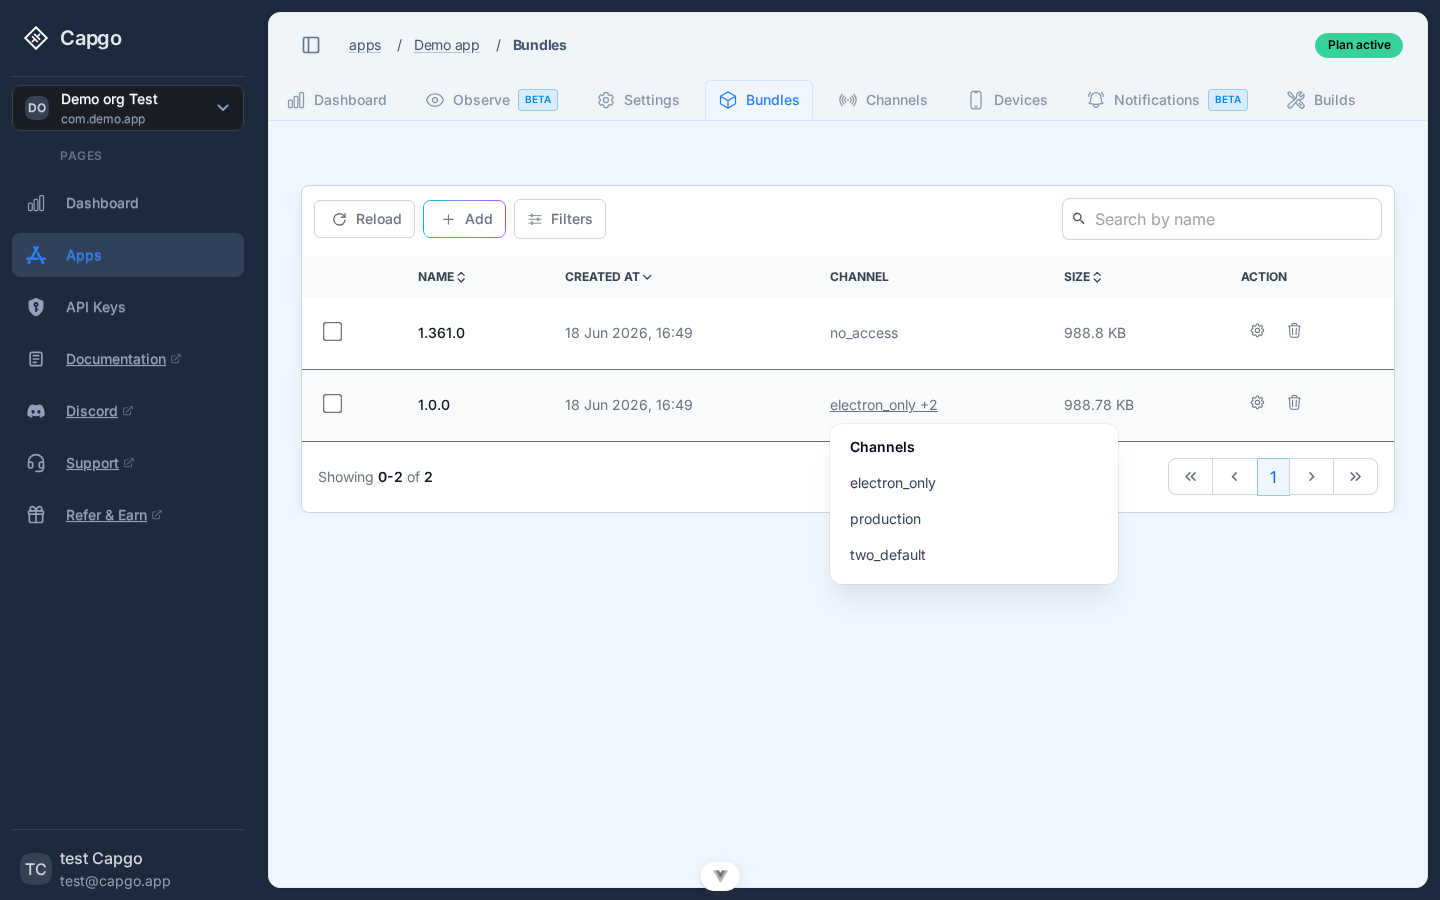
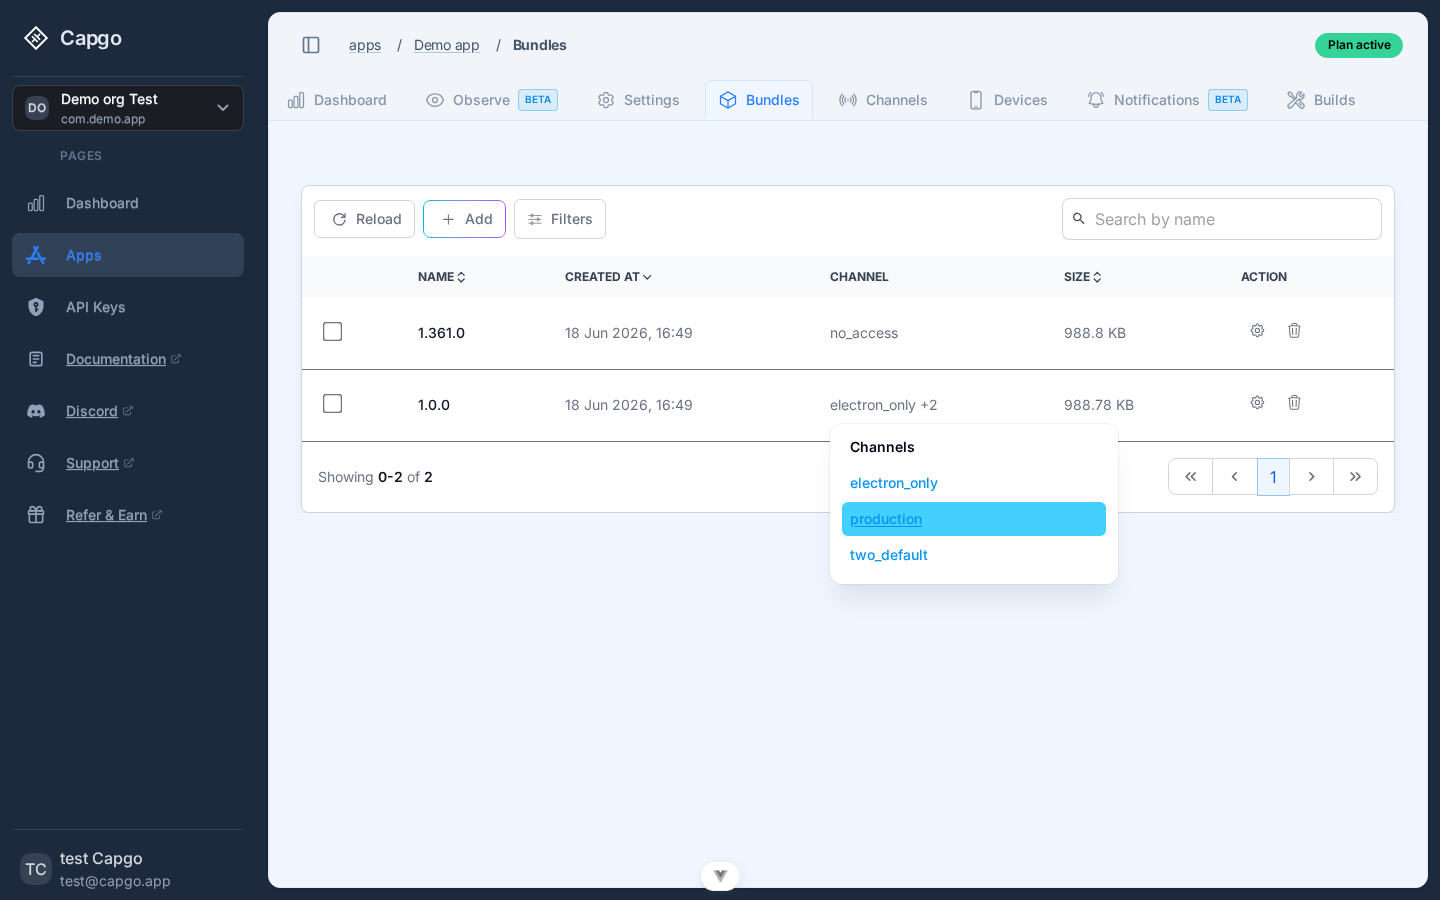
fix(console): make bundle channel popover items look clickable
Azure link styling so the metadata-style list clearly invites selecting
a channel. Refresh after screenshots with production row hovered.

Changed region(s): [[0.5625, 0.5289, 0.7812, 0.6222]]

diff --git a/src/components/tables/BundleChannelsPopover.vue b/src/components/tables/BundleChannelsPopover.vue
@@ -190,7 +190,7 @@ onUnmounted(() => {
         <li v-for="channel in merged" :key="channel.id">
           <button
             type="button"
-            class="flex w-full cursor-pointer items-center rounded-md px-2 py-1.5 text-left text-sm text-slate-700 hover:bg-slate-100 hover:text-azure-600 focus-visible:outline-2 focus-visible:outline-offset-2 focus-visible:outline-azure-500 dark:text-slate-200 dark:hover:bg-slate-800 dark:hover:text-azure-400"
+            class="flex w-full cursor-pointer items-center rounded-md px-2 py-1.5 text-left text-sm font-medium text-azure-600 underline-offset-2 hover:bg-azure-50 hover:underline focus-visible:outline-2 focus-visible:outline-offset-2 focus-visible:outline-azure-500 dark:text-azure-400 dark:hover:bg-slate-800"
             :data-test="`bundle-row-channel-${channel.id}`"
             @click.stop="goToChannel(channel.id)"
           >
